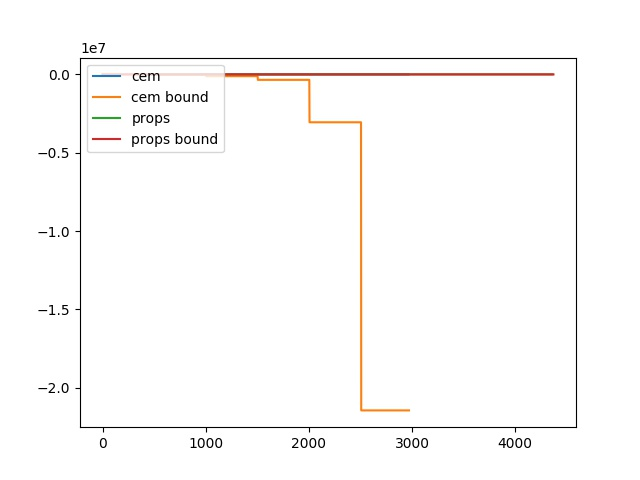
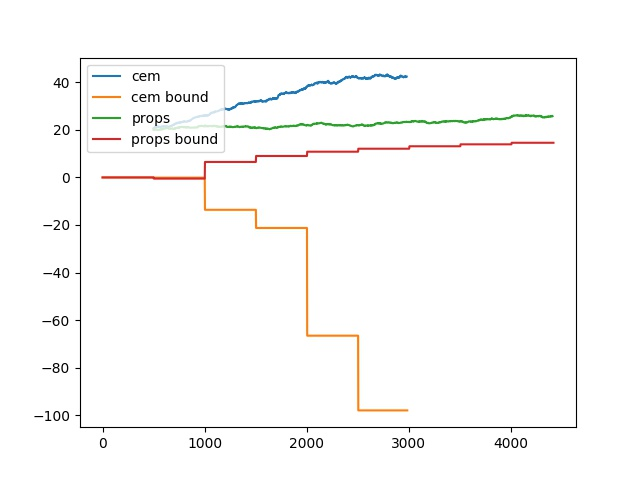
fixed cem bound calculation

diff --git a/rl/agents/cem.py b/rl/agents/cem.py
@@ -9,6 +9,7 @@ from keras.models import Model
 from rl.core import Agent
 from rl.util import *
 from rl.agents.props_util import *
+from scipy.optimize import minimize
 
 class CEMAgent(Agent):
     """Write me
@@ -65,6 +66,10 @@ class CEMAgent(Agent):
         self.yss = None
         self.thss = None
         self.bound_vals = [0]
+        self.a = 1
+        self.tol = 1e-20
+        self.min_var = 1e-3;
+        self.d = self.curr_th_mean.size
 
     def compile(self):
         self.model.compile(optimizer='sgd', loss='mse')
@@ -179,7 +184,11 @@ class CEMAgent(Agent):
                     self.thss = ths_trans
                 else:
                     self.thss = np.append(self.thss, ths_trans, axis=2)
-                
+
+                # Setup box constraints on optimization vector        
+                box_constraints = [(self.tol, None)] # alpha > 0
+                    
+                # CEM actual stuff
                 best_idx = np.argsort(np.array(reward_totals))[-self.num_best:]
                 best = np.vstack([params[i] for i in best_idx])
 
@@ -196,11 +205,14 @@ class CEMAgent(Agent):
                 new_theta = np.hstack((mean, std))
                 self.update_theta(new_theta)
 
-                #bound_val = dist_bound_robust_cost_func(a_and_pk, self.pks, self.yss, self.thss, self.delta, self.Lmax, self.bound_opts)
-                #a = 0.0000000001
-                a = 1
-                bound_val, _, _ = dist_bound_robust(a, self.curr_pk, self.pks, self.yss, self.thss, self.delta, self.Lmax, self.bound_opts)
-                self.bound_vals.append(-1*bound_val + 200)
+                # calculate bound stuff
+                analytic_jac = self.bound_opts.get('analytic_jac')
+                a0 = self.a
+                bound = lambda a : self.bound_util(a)
+                res = minimize(bound, a0, method='L-BFGS-B', jac=analytic_jac, bounds=box_constraints, options={'disp' : False})
+
+                self.a = res.x
+                self.bound_vals.append(-1*res.fun + 200)
 
                 self.curr_th_mean = mean
                 self.curr_th_std = std
@@ -219,3 +231,7 @@ class CEMAgent(Agent):
         if self.processor is not None:
             names += self.processor.metrics_names[:]
         return names
+
+    def bound_util(self, a):
+        val, _, _ = dist_bound_robust(a, self.curr_pk, self.pks, self.yss, self.thss, self.delta, self.Lmax, self.bound_opts)
+        return val
